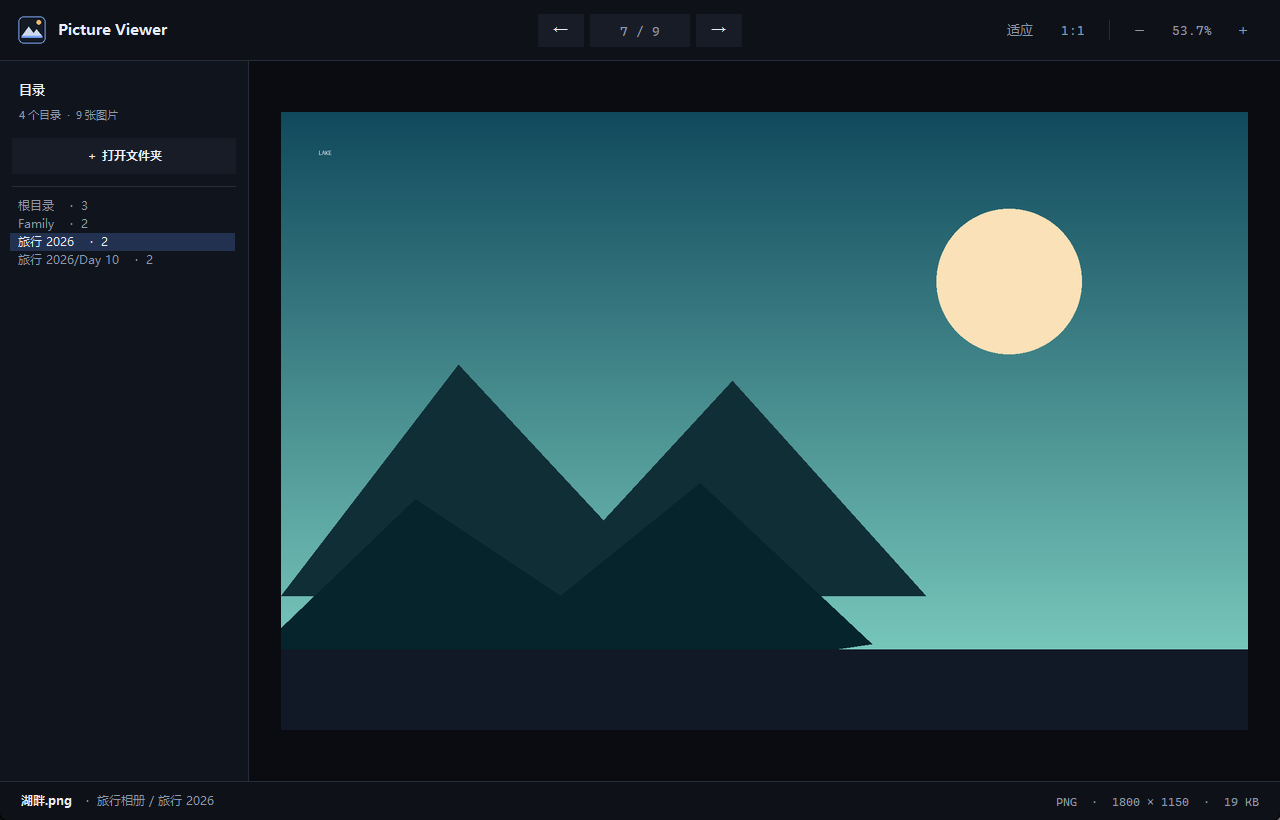
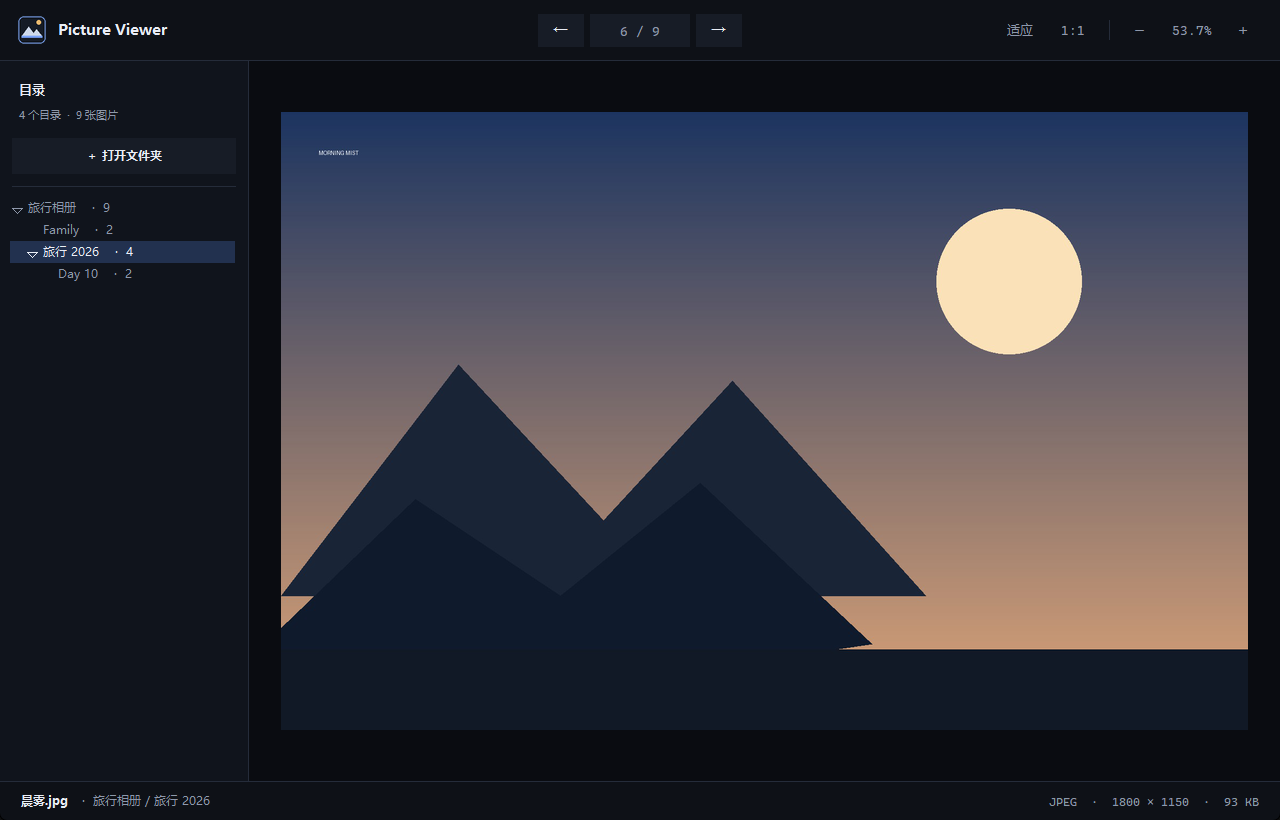
feat: add expandable folder tree to sidebar
Changes:
- render sidebar folders as an indented, expandable tree
- keep click-to-jump and auto-expand ancestors of the active folder
- refresh the README preview

diff --git a/picture_viewer.py b/picture_viewer.py
@@ -21,7 +21,7 @@ import threading
 import tkinter as tk
 import tkinter.font as tkfont
 from pathlib import Path
-from tkinter import filedialog
+from tkinter import filedialog, ttk
 from typing import Callable, Sequence
 
 try:
@@ -834,28 +834,47 @@ class PictureViewerApp:
         list_area.grid_rowconfigure(0, weight=1)
         list_area.grid_columnconfigure(0, weight=1)
 
-        self._folder_yview = (0.0, 1.0)
-        self.folder_listbox = tk.Listbox(
-            list_area,
-            width=1,
-            height=1,
-            bg=SIDEBAR_BG,
-            fg=MUTED,
-            selectbackground=SIDEBAR_SELECT,
-            selectforeground=TEXT,
-            disabledforeground=MUTED_DIM,
-            highlightthickness=0,
+        style = ttk.Style(self.root)
+        try:
+            style.theme_use("clam")
+        except tk.TclError:
+            pass
+        style.configure(
+            "Sidebar.Treeview",
+            background=SIDEBAR_BG,
+            fieldbackground=SIDEBAR_BG,
+            foreground=MUTED,
             borderwidth=0,
-            selectborderwidth=0,
             relief="flat",
-            activestyle="none",
-            exportselection=False,
-            selectmode="browse",
             font=self._font(9),
+            rowheight=22,
+            indent=15,
+        )
+        style.map(
+            "Sidebar.Treeview",
+            background=[("selected", SIDEBAR_SELECT)],
+            foreground=[("selected", TEXT)],
+        )
+        style.layout(
+            "Sidebar.Treeview",
+            [("Treeview.treearea", {"sticky": "nswe"})],
+        )
+
+        self._folder_yview = (0.0, 1.0)
+        self._folder_items_by_path: dict[Path, str] = {}
+        self._folder_first_index: dict[str, int] = {}
+        self._folder_item_paths: dict[str, Path] = {}
+
+        self.folder_tree = ttk.Treeview(
+            list_area,
+            show="tree",
+            selectmode="browse",
+            style="Sidebar.Treeview",
             cursor="hand2",
             takefocus=0,
         )
-        self.folder_listbox.grid(row=0, column=0, sticky="nsew")
+        self.folder_tree.column("#0", width=190, minwidth=100, stretch=True)
+        self.folder_tree.grid(row=0, column=0, sticky="nsew")
 
         self.sidebar_scrollbar = tk.Canvas(
             list_area,
@@ -866,7 +885,7 @@ class PictureViewerApp:
             cursor="hand2",
         )
         self.sidebar_scrollbar.grid(row=0, column=1, sticky="ns", padx=(4, 0))
-        self.folder_listbox.configure(yscrollcommand=self._on_folder_scroll)
+        self.folder_tree.configure(yscrollcommand=self._on_folder_scroll)
         self.sidebar_scrollbar.bind(
             "<Configure>", lambda _event: self._draw_sidebar_scrollbar()
         )
@@ -888,30 +907,26 @@ class PictureViewerApp:
         )
         self.sidebar_empty.place(relx=0.5, rely=0.38, anchor="center")
 
-        self.folder_listbox.bind("<ButtonRelease-1>", self._on_sidebar_click)
-        self.folder_listbox.bind("<MouseWheel>", self._on_sidebar_wheel)
-        self.folder_listbox.bind(
+        self.folder_tree.bind("<ButtonRelease-1>", self._on_sidebar_click)
+        self.folder_tree.bind("<MouseWheel>", self._on_sidebar_wheel)
+        self.folder_tree.bind(
             "<Button-4>", lambda event: self._on_sidebar_wheel(event, 1)
         )
-        self.folder_listbox.bind(
+        self.folder_tree.bind(
             "<Button-5>", lambda event: self._on_sidebar_wheel(event, -1)
         )
 
-    def _sidebar_folder_label(self, folder: Path) -> str:
-        if self.root_path is None:
-            return str(folder)
-        try:
-            relative = folder.relative_to(self.root_path)
-        except ValueError:
-            return folder.name or str(folder)
-        if str(relative) == ".":
-            return "根目录"
-        return relative.as_posix()
-
     def _clear_sidebar(self, summary: str, empty_message: str) -> None:
-        self.folder_listbox.delete(0, tk.END)
-        self.folder_listbox.selection_clear(0, tk.END)
-        self.folder_listbox.yview_moveto(0)
+        children = self.folder_tree.get_children("")
+        if children:
+            self.folder_tree.delete(*children)
+        selection = self.folder_tree.selection()
+        if selection:
+            self.folder_tree.selection_remove(*selection)
+        self._folder_items_by_path.clear()
+        self._folder_first_index.clear()
+        self._folder_item_paths.clear()
+        self.folder_tree.yview_moveto(0)
         self._folder_yview = (0.0, 1.0)
         self._draw_sidebar_scrollbar()
         self.sidebar_summary.configure(text=summary)
@@ -922,58 +937,146 @@ class PictureViewerApp:
             self.sidebar_empty.place_forget()
 
     def _populate_sidebar(self) -> None:
-        self.folder_listbox.delete(0, tk.END)
-        for folder, start, end in self.folder_groups:
-            label = self._sidebar_folder_label(folder)
-            self.folder_listbox.insert(
-                tk.END, f"  {label}    ·  {end - start}"
-            )
-        if self.folder_groups:
-            self.sidebar_empty.place_forget()
-            self.sidebar_summary.configure(
-                text=(
-                    f"{len(self.folder_groups)} 个目录"
-                    f"  ·  {len(self.images)} 张图片"
-                )
-            )
-        else:
+        children = self.folder_tree.get_children("")
+        if children:
+            self.folder_tree.delete(*children)
+        self._folder_items_by_path.clear()
+        self._folder_first_index.clear()
+        self._folder_item_paths.clear()
+
+        if not self.folder_groups or self.root_path is None:
             self.sidebar_summary.configure(text="没有可显示的目录")
             self.sidebar_empty.configure(text="这个文件夹里没有可显示的图片")
             self.sidebar_empty.place(relx=0.5, rely=0.38, anchor="center")
-        self.folder_listbox.yview_moveto(0)
+            self._folder_yview = (0.0, 1.0)
+            self._draw_sidebar_scrollbar()
+            return
+
+        root = self.root_path
+        nodes: dict[Path, dict] = {}
+
+        def ensure_node(path: Path) -> dict:
+            if path not in nodes:
+                nodes[path] = {
+                    "path": path,
+                    "children": set(),
+                    "start": None,
+                    "end": None,
+                }
+            return nodes[path]
+
+        ensure_node(root)
+        for folder, start, end in self.folder_groups:
+            try:
+                folder.relative_to(root)
+            except ValueError:
+                continue
+            node = ensure_node(folder)
+            node["start"] = start
+            node["end"] = end
+            current = folder
+            while current != root:
+                parent = current.parent
+                ensure_node(parent)["children"].add(current)
+                current = parent
+
+        def prepare(path: Path) -> tuple[int, int]:
+            node = nodes[path]
+            direct = (
+                node["end"] - node["start"]
+                if node["start"] is not None
+                else 0
+            )
+            first = node["start"]
+            ordered = sorted(
+                node["children"],
+                key=lambda item: (natural_key(item.name), item.name),
+            )
+            for child in ordered:
+                child_first, child_total = prepare(child)
+                if first is None or child_first < first:
+                    first = child_first
+                direct += child_total
+            node["ordered"] = ordered
+            node["first"] = first
+            node["total"] = direct
+            return first if first is not None else 0, direct
+
+        prepare(root)
+
+        counter = 0
+
+        def insert_node(path: Path, parent_id: str = "") -> None:
+            nonlocal counter
+            node = nodes[path]
+            label = root.name if path == root else path.name
+            if not label:
+                label = str(path)
+            item_id = f"folder-{counter}"
+            counter += 1
+            item_text = f"{label}    ·  {node['total']}"
+            self.folder_tree.insert(
+                parent_id,
+                "end",
+                iid=item_id,
+                text=item_text,
+                open=(path == root),
+            )
+            self._folder_items_by_path[path] = item_id
+            self._folder_first_index[item_id] = int(node["first"])
+            self._folder_item_paths[item_id] = path
+            for child in node["ordered"]:
+                insert_node(child, item_id)
+
+        insert_node(root)
+        self.sidebar_empty.place_forget()
+        self.sidebar_summary.configure(
+            text=(
+                f"{len(nodes)} 个目录"
+                f"  ·  {len(self.images)} 张图片"
+            )
+        )
+        self.folder_tree.yview_moveto(0)
+        self._folder_yview = (0.0, 1.0)
         self._draw_sidebar_scrollbar()
         self._sync_sidebar_selection()
 
     def _sync_sidebar_selection(self) -> None:
-        if not self.folder_groups or self.index < 0:
-            self.folder_listbox.selection_clear(0, tk.END)
+        if not self.images or self.index < 0:
+            selection = self.folder_tree.selection()
+            if selection:
+                self.folder_tree.selection_remove(*selection)
             return
-        for row, (_folder, start, end) in enumerate(self.folder_groups):
-            if start <= self.index < end:
-                if row < self.folder_listbox.size():
-                    self.folder_listbox.selection_clear(0, tk.END)
-                    self.folder_listbox.selection_set(row)
-                    self.folder_listbox.activate(row)
-                    self.folder_listbox.see(row)
-                return
+        current_folder = self.images[self.index].parent
+        item_id = self._folder_items_by_path.get(current_folder)
+        if item_id is None:
+            return
+
+        parent = self.folder_tree.parent(item_id)
+        while parent:
+            self.folder_tree.item(parent, open=True)
+            parent = self.folder_tree.parent(parent)
+
+        selection = self.folder_tree.selection()
+        if selection:
+            self.folder_tree.selection_remove(*selection)
+        self.folder_tree.selection_set(item_id)
+        self.folder_tree.see(item_id)
 
     def _on_sidebar_click(self, event: tk.Event) -> str:
-        if not self.folder_groups:
+        item_id = self.folder_tree.identify_row(event.y)
+        if not item_id or item_id not in self._folder_first_index:
             return "break"
-        row = self.folder_listbox.nearest(event.y)
-        if row < 0 or row >= len(self.folder_groups):
-            return "break"
-        bbox = self.folder_listbox.bbox(row)
-        if bbox is None:
-            return "break"
-        _x, top, _width, height = bbox
-        if not (top <= event.y <= top + height):
+        element = str(self.folder_tree.identify_element(event.x, event.y))
+        if "indicator" in element:
+            self.canvas.focus_set()
             return "break"
 
-        _folder, start, _end = self.folder_groups[row]
-        self.folder_listbox.selection_clear(0, tk.END)
-        self.folder_listbox.selection_set(row)
-        self.folder_listbox.activate(row)
+        start = self._folder_first_index[item_id]
+        selection = self.folder_tree.selection()
+        if selection:
+            self.folder_tree.selection_remove(*selection)
+        self.folder_tree.selection_set(item_id)
         if start != self.index:
             self.navigate_to(start)
         else:
@@ -982,7 +1085,7 @@ class PictureViewerApp:
         return "break"
 
     def _on_sidebar_wheel(self, event: tk.Event, direction: int | None = None) -> str:
-        if not self.folder_groups:
+        if not self._folder_first_index:
             return "break"
         if direction is None:
             delta = int(getattr(event, "delta", 0))
@@ -992,7 +1095,7 @@ class PictureViewerApp:
             steps *= max(1, abs(delta) // 120)
         else:
             steps = -direction
-        self.folder_listbox.yview_scroll(steps, "units")
+        self.folder_tree.yview_scroll(steps, "units")
         return "break"
 
     def _on_folder_scroll(self, first: str, last: str) -> None:
@@ -1040,7 +1143,7 @@ class PictureViewerApp:
         height = max(1, self.sidebar_scrollbar.winfo_height())
         top = event.y / height - visible / 2
         top = max(0.0, min(1.0 - visible, top))
-        self.folder_listbox.yview_moveto(top)
+        self.folder_tree.yview_moveto(top)
         return "break"
 
     def _build_overlay(self) -> None:
@@ -1701,13 +1804,13 @@ class PictureViewerApp:
             self.zoom_label.configure(text=format_zoom(self.zoom))
 
     def _on_mousewheel(self, event: tk.Event) -> str:
-        pointer_x = self.folder_listbox.winfo_pointerx()
-        pointer_y = self.folder_listbox.winfo_pointery()
-        list_x = self.folder_listbox.winfo_rootx()
-        list_y = self.folder_listbox.winfo_rooty()
+        pointer_x = self.folder_tree.winfo_pointerx()
+        pointer_y = self.folder_tree.winfo_pointery()
+        list_x = self.folder_tree.winfo_rootx()
+        list_y = self.folder_tree.winfo_rooty()
         if (
-            list_x <= pointer_x < list_x + self.folder_listbox.winfo_width()
-            and list_y <= pointer_y < list_y + self.folder_listbox.winfo_height()
+            list_x <= pointer_x < list_x + self.folder_tree.winfo_width()
+            and list_y <= pointer_y < list_y + self.folder_tree.winfo_height()
         ):
             return self._on_sidebar_wheel(event)
 

diff --git a/README.md b/README.md
@@ -7,7 +7,7 @@
 ## 核心功能
 
 - **递归打开文件夹**：自动扫描所有子文件夹，图片按目录和文件名自然排序。
-- **目录侧栏**：侧栏可直接打开文件夹，并按目录分组列出图片；点击任意目录即可跳转，当前目录自动高亮。
+- **目录树侧栏**：侧栏可直接打开文件夹，并以缩进的可展开目录树展示结构；点击目录即可跳转，深层目录会自动展开并高亮。
 - **连续浏览**：`← ↑ ↓ →` 切换图片，跨越目录时自动进入下一组；`Ctrl + ←/→` 直接跳转文件夹。
 - **缩放与平移**：滚轮以鼠标位置为中心缩放，放大后可拖动画面。
 - **常用操作**：适应窗口、100% 原始大小、双击切换、读取 EXIF 方向。
